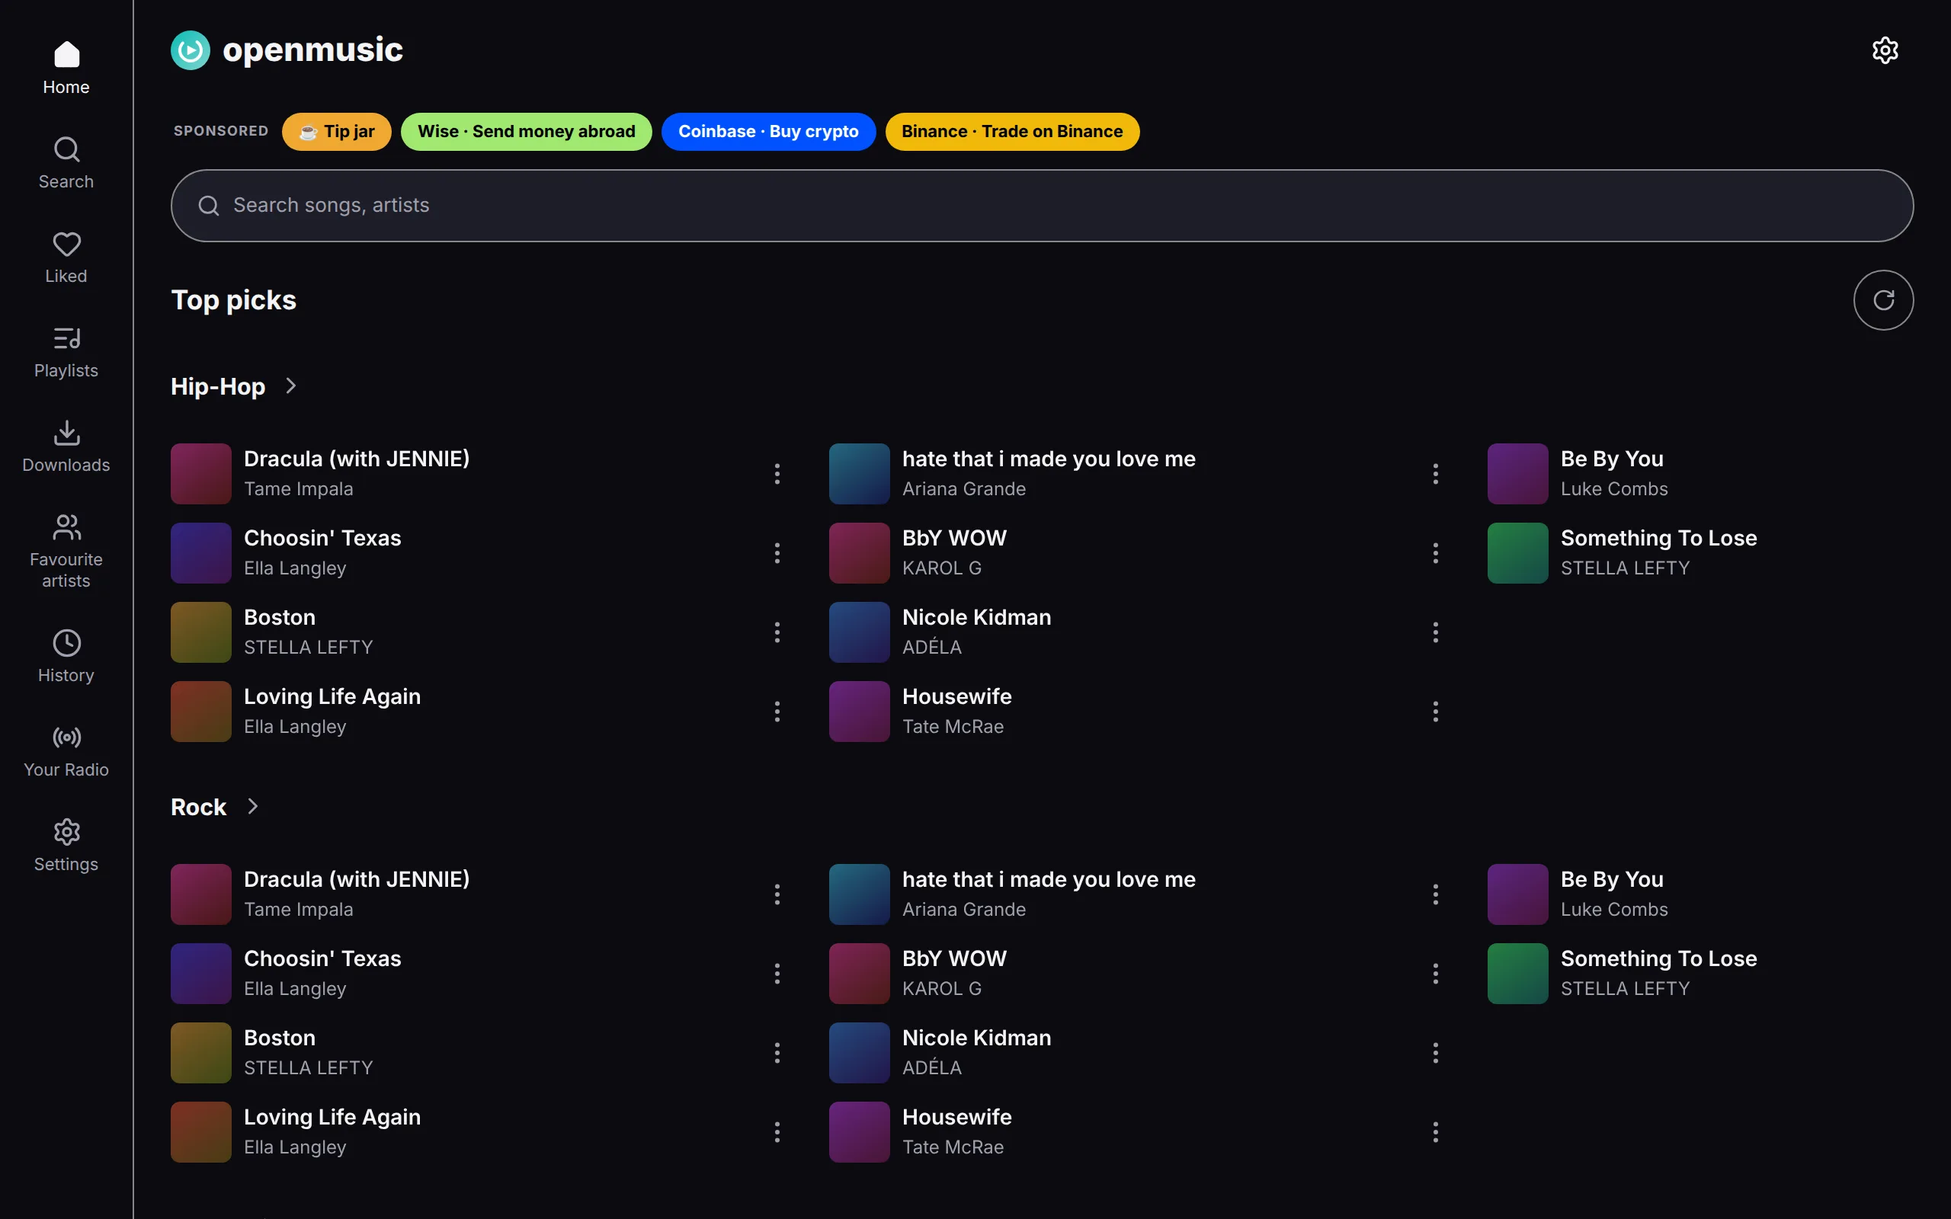
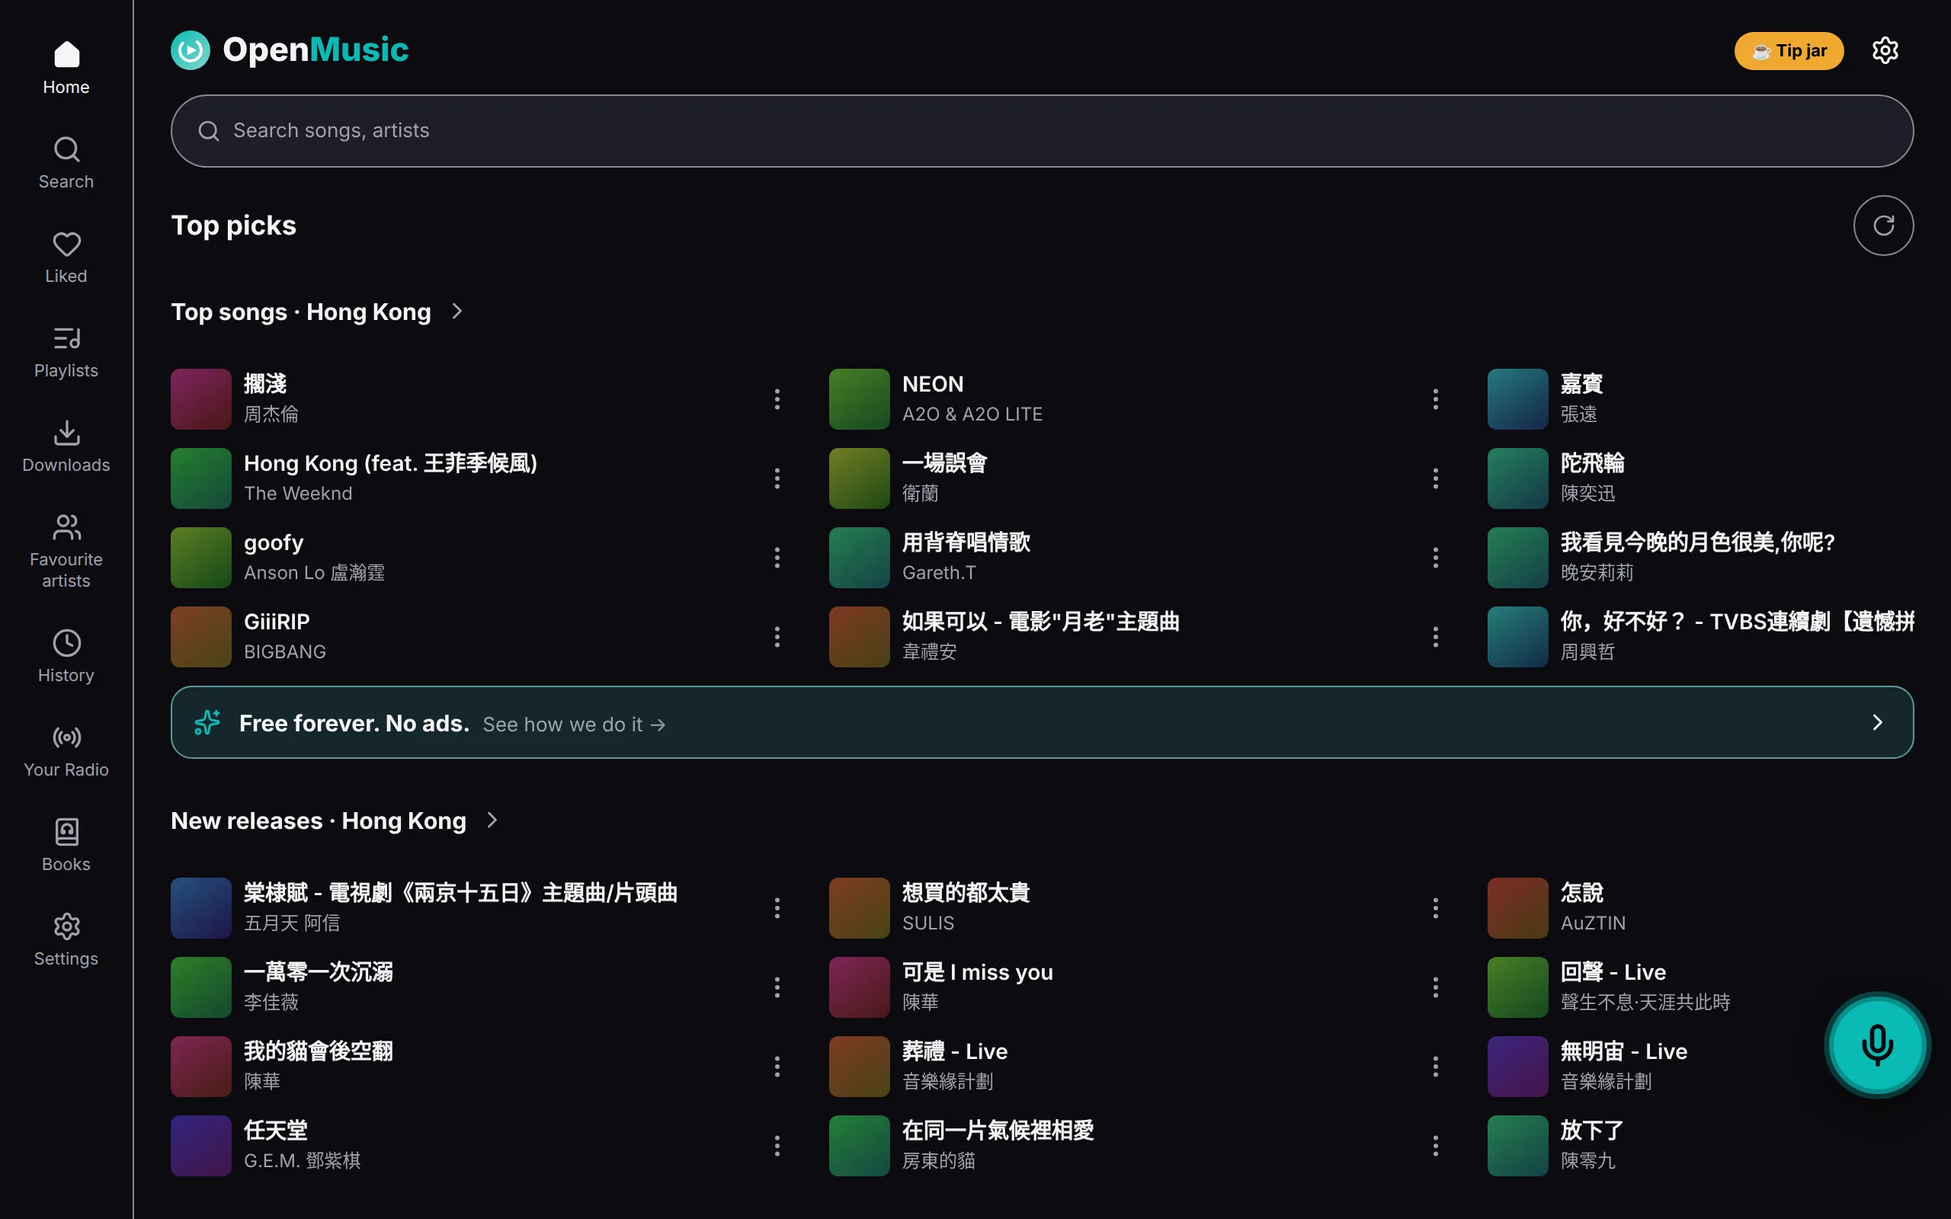
feat(free): tip-jar-only truth on /free — captions in 15 locales + recaptured home shot (Workstream A)
Hector 2026-11-23 20:59: only direct personal donations remain, NO other
sponsorships. The sponsor config/strip/supporter-sheet half already landed
in quick-261119-tiponly; this change finishes the /free surface:

- free.shot.homeCaption + free.shot.homeAlt rewritten in ALL 15 locales:
  no ads, no sponsorships — only a voluntary tip jar to the developer
  personally. Key names unchanged (i18n parity intact).
- free-page.test.ts: failing-if-broken pin — the caption/alt must tell the
  tip-jar-only truth and never mention the retired Sponsored row again.
- static/show/shot-home.webp RECAPTURED: real headless-Chromium shot of a
  local production build's Home (2560x1600, same as before) — header holds
  ONLY the gold Tip jar pill; the old capture still showed Wise/Coinbase/
  Binance referral pills.

diff --git a/src/lib/i18n/th.ts b/src/lib/i18n/th.ts
@@ -975,8 +975,8 @@ const th: Dict = {
 	"free.shot.settingsAlt": "การตั้งค่า OpenMusic: 15 ภาษา ธีมมืด สว่าง Gold และ Sakura สีเน้น และขนาดตัวอักษร",
 	"free.shot.listCaption": "การเล่น ดาวน์โหลด หน้าตา การแปล ข้อมูล… ปรับได้ตามใจคุณ",
 	"free.shot.listAlt": "รายการการตั้งค่า OpenMusic: บัญชี การเล่น ดาวน์โหลด หน้าตา เลย์เอาต์หน้าแรก การแปล ข้อมูล บันทึกกิจกรรม และเกี่ยวกับ",
-	"free.shot.homeCaption": "เพลงจริงบนหน้าแรก ไม่ต้องมีบัญชี ไม่มีโฆษณา — มีแค่แถว ได้รับการสนับสนุน ที่ติดป้ายไว้แถวเดียว",
-	"free.shot.homeAlt": "หน้าแรก OpenMusic: แถว ได้รับการสนับสนุน ที่ติดป้าย แถบค้นหา และชั้นเพลงจริง",
+	"free.shot.homeCaption": "เพลงจริงบนหน้าแรก ไม่ต้องมีบัญชี ไม่มีโฆษณา ไม่มีสปอนเซอร์ — มีเพียงกล่องทิปโดยสมัครใจ หากคุณอยากสนับสนุนนักพัฒนาโดยตรง",
+	"free.shot.homeAlt": "หน้าแรก OpenMusic: ปุ่มกล่องทิปโดยสมัครใจในส่วนหัว แถบค้นหา และชั้นเพลงจริง",
 
 	// --- lyrics editor (quick-261120-ugcb2) ---
 	"nowplaying.addLyrics": "เพิ่มเนื้อเพลง",

diff --git a/src/lib/i18n/hi.ts b/src/lib/i18n/hi.ts
@@ -975,8 +975,8 @@ const hi: Dict = {
 	"free.shot.settingsAlt": "OpenMusic सेटिंग्स: 15 भाषाएँ, Dark, Light, Gold और Sakura थीम, एक्सेंट रंग और टेक्स्ट साइज़",
 	"free.shot.listCaption": "प्लेबैक, डाउनलोड, रूप-रंग, अनुवाद, डेटा… सब आपकी पसंद से।",
 	"free.shot.listAlt": "OpenMusic सेटिंग्स सूची: अकाउंट, प्लेबैक, डाउनलोड, रूप-रंग, होम लेआउट, अनुवाद, डेटा, गतिविधि लॉग और परिचय",
-	"free.shot.homeCaption": "होम पर असली गाने। कोई अकाउंट नहीं, कोई विज्ञापन नहीं — बस एक लेबल वाली प्रायोजित पंक्ति।",
-	"free.shot.homeAlt": "OpenMusic होम: लेबल वाली प्रायोजित पंक्ति, सर्च बार और असली गानों की शेल्फ़",
+	"free.shot.homeCaption": "होम पर असली गाने। कोई अकाउंट नहीं, कोई विज्ञापन नहीं, कोई प्रायोजन नहीं — बस एक स्वैच्छिक टिप जार, अगर आप डेवलपर का व्यक्तिगत रूप से समर्थन करना चाहें।",
+	"free.shot.homeAlt": "OpenMusic होम: हेडर में स्वैच्छिक टिप जार बटन, सर्च बार और असली गानों की शेल्फ़",
 
 	// --- lyrics editor (quick-261120-ugcb2) ---
 	"nowplaying.addLyrics": "बोल जोड़ें",

diff --git a/src/lib/i18n/ru.ts b/src/lib/i18n/ru.ts
@@ -975,8 +975,8 @@ const ru: Dict = {
 	"free.shot.settingsAlt": "Настройки OpenMusic: 15 языков, темы Тёмная, Светлая, Gold и Sakura, акцентные цвета и размер текста",
 	"free.shot.listCaption": "Воспроизведение, загрузки, оформление, перевод, данные… всё настраивается под вас.",
 	"free.shot.listAlt": "Список настроек OpenMusic: Аккаунт, Воспроизведение, Загрузки, Оформление, Макет главной, Перевод, Данные, Журнал действий и О приложении",
-	"free.shot.homeCaption": "Настоящие песни на главной. Без аккаунта и рекламы — только одна помеченная строка «Спонсор».",
-	"free.shot.homeAlt": "Главная OpenMusic: помеченная строка «Спонсор», строка поиска и полки с настоящими песнями",
+	"free.shot.homeCaption": "Настоящие песни на главной. Без аккаунта, без рекламы, без спонсорства — только добровольная банка для чаевых, если хотите лично поддержать разработчика.",
+	"free.shot.homeAlt": "Главная OpenMusic: добровольная кнопка чаевых в шапке, строка поиска и полки с настоящими песнями",
 
 	// --- lyrics editor (quick-261120-ugcb2) ---
 	"nowplaying.addLyrics": "Добавить текст",

diff --git a/src/lib/i18n/ar.ts b/src/lib/i18n/ar.ts
@@ -975,8 +975,8 @@ const ar: Dict = {
 	"free.shot.settingsAlt": "إعدادات OpenMusic: 15 لغة، سمات داكنة وفاتحة وGold وSakura، ألوان التمييز وحجم النص",
 	"free.shot.listCaption": "التشغيل، التنزيلات، المظهر، الترجمة، البيانات… كلها تضبطها كما تشاء.",
 	"free.shot.listAlt": "قائمة إعدادات OpenMusic: الحساب، التشغيل، التنزيلات، المظهر، تخطيط الرئيسية، الترجمة، البيانات، سجل النشاط وحول",
-	"free.shot.homeCaption": "أغانٍ حقيقية في الرئيسية. بلا حساب، بلا إعلانات — فقط صف «برعاية» واحد موسوم.",
-	"free.shot.homeAlt": "الصفحة الرئيسية لـ OpenMusic: صف «برعاية» الموسوم وشريط البحث ورفوف أغانٍ حقيقية",
+	"free.shot.homeCaption": "أغانٍ حقيقية في الرئيسية. بلا حساب، بلا إعلانات، بلا رعايات — فقط جرة إكراميات تطوعية إذا أردت دعم المطوّر شخصيًا.",
+	"free.shot.homeAlt": "الصفحة الرئيسية لـ OpenMusic: زر جرة الإكراميات التطوعية في الترويسة وشريط البحث ورفوف أغانٍ حقيقية",
 
 	// --- lyrics editor (quick-261120-ugcb2) ---
 	"nowplaying.addLyrics": "إضافة كلمات",

diff --git a/src/lib/i18n/vi.ts b/src/lib/i18n/vi.ts
@@ -975,8 +975,8 @@ const vi: Dict = {
 	"free.shot.settingsAlt": "Cài đặt OpenMusic: 15 ngôn ngữ, giao diện Tối, Sáng, Gold và Sakura, màu nhấn và cỡ chữ",
 	"free.shot.listCaption": "Phát nhạc, tải xuống, giao diện, dịch, dữ liệu… tất cả tùy bạn chỉnh.",
 	"free.shot.listAlt": "Danh sách cài đặt OpenMusic: Tài khoản, Phát nhạc, Tải xuống, Giao diện, Bố cục Trang chủ, Dịch, Dữ liệu, Nhật ký hoạt động và Giới thiệu",
-	"free.shot.homeCaption": "Bài hát thật trên Trang chủ. Không tài khoản, không quảng cáo — chỉ một hàng Được tài trợ được ghi rõ.",
-	"free.shot.homeAlt": "Trang chủ OpenMusic: hàng Được tài trợ được ghi rõ, thanh tìm kiếm và các kệ bài hát thật",
+	"free.shot.homeCaption": "Bài hát thật trên Trang chủ. Không tài khoản, không quảng cáo, không tài trợ — chỉ một hũ tip tự nguyện nếu bạn muốn ủng hộ trực tiếp nhà phát triển.",
+	"free.shot.homeAlt": "Trang chủ OpenMusic: nút hũ tip tự nguyện ở đầu trang, thanh tìm kiếm và các kệ bài hát thật",
 
 	// --- lyrics editor (quick-261120-ugcb2) ---
 	"nowplaying.addLyrics": "Thêm lời bài hát",

diff --git a/src/lib/i18n/fr.ts b/src/lib/i18n/fr.ts
@@ -975,8 +975,8 @@ const fr: Dict = {
 	"free.shot.settingsAlt": "Réglages d'OpenMusic : 15 langues, thèmes Sombre, Clair, Gold et Sakura, couleurs d'accent et taille du texte",
 	"free.shot.listCaption": "Lecture, téléchargements, apparence, traduction, données… tout se règle à ton goût.",
 	"free.shot.listAlt": "Liste des réglages d'OpenMusic : Compte, Lecture, Téléchargements, Apparence, Mise en page de l'accueil, Traduction, Données, Journal d'activité et À propos",
-	"free.shot.homeCaption": "De vrais titres sur l'Accueil. Sans compte, sans pub — juste la ligne Sponsorisé bien identifiée.",
-	"free.shot.homeAlt": "Accueil d'OpenMusic : la ligne Sponsorisé identifiée, la barre de recherche et des rayons de vrais titres",
+	"free.shot.homeCaption": "De vrais titres sur l'Accueil. Sans compte, sans pub, sans parrainages — juste une cagnotte volontaire si vous voulez soutenir le développeur personnellement.",
+	"free.shot.homeAlt": "Accueil d'OpenMusic : le bouton de cagnotte volontaire dans l'en-tête, la barre de recherche et des rayons de vrais titres",
 
 	// --- lyrics editor (quick-261120-ugcb2) ---
 	"nowplaying.addLyrics": "Ajouter les paroles",

diff --git a/src/lib/i18n/de.ts b/src/lib/i18n/de.ts
@@ -975,8 +975,8 @@ const de: Dict = {
 	"free.shot.settingsAlt": "OpenMusic-Einstellungen: 15 Sprachen, Designs Dunkel, Hell, Gold und Sakura, Akzentfarben und Textgröße",
 	"free.shot.listCaption": "Wiedergabe, Downloads, Darstellung, Übersetzung, Daten… alles nach deinem Geschmack.",
 	"free.shot.listAlt": "OpenMusic-Einstellungsliste: Konto, Wiedergabe, Downloads, Darstellung, Startseiten-Layout, Übersetzung, Daten, Aktivitätsprotokoll und Info",
-	"free.shot.homeCaption": "Echte Titel auf der Startseite. Kein Konto, keine Werbung — nur die eine gekennzeichnete Gesponsert-Zeile.",
-	"free.shot.homeAlt": "OpenMusic-Startseite: die gekennzeichnete Gesponsert-Zeile, die Suchleiste und Regale mit echten Titeln",
+	"free.shot.homeCaption": "Echte Titel auf der Startseite. Kein Konto, keine Werbung, keine Sponsorings — nur ein freiwilliges Trinkgeldglas, wenn du den Entwickler persönlich unterstützen willst.",
+	"free.shot.homeAlt": "OpenMusic-Startseite: die freiwillige Trinkgeldglas-Schaltfläche in der Kopfzeile, die Suchleiste und Regale mit echten Titeln",
 
 	// --- lyrics editor (quick-261120-ugcb2) ---
 	"nowplaying.addLyrics": "Songtext hinzufügen",

diff --git a/src/lib/i18n/it.ts b/src/lib/i18n/it.ts
@@ -975,8 +975,8 @@ const it: Dict = {
 	"free.shot.settingsAlt": "Impostazioni di OpenMusic: 15 lingue, temi Scuro, Chiaro, Gold e Sakura, colori d'accento e dimensione del testo",
 	"free.shot.listCaption": "Riproduzione, download, aspetto, traduzione, dati… tutto da regolare a piacere.",
 	"free.shot.listAlt": "Elenco impostazioni di OpenMusic: Account, Riproduzione, Download, Aspetto, Layout della Home, Traduzione, Dati, Registro attività e Info",
-	"free.shot.homeCaption": "Brani veri nella Home. Nessun account, niente pubblicità — solo la riga Sponsorizzato ben indicata.",
-	"free.shot.homeAlt": "Home di OpenMusic: la riga Sponsorizzato indicata, la barra di ricerca e scaffali di brani veri",
+	"free.shot.homeCaption": "Brani veri nella Home. Nessun account, niente pubblicità, niente sponsorizzazioni — solo un salvadanaio volontario per le mance se vuoi sostenere personalmente lo sviluppatore.",
+	"free.shot.homeAlt": "Home di OpenMusic: il pulsante volontario per le mance nell'intestazione, la barra di ricerca e scaffali di brani veri",
 
 	// --- lyrics editor (quick-261120-ugcb2) ---
 	"nowplaying.addLyrics": "Aggiungi testo",

diff --git a/src/lib/i18n/pt.ts b/src/lib/i18n/pt.ts
@@ -975,8 +975,8 @@ const pt: Dict = {
 	"free.shot.settingsAlt": "Configurações do OpenMusic: 15 idiomas, temas Escuro, Claro, Gold e Sakura, cores de destaque e tamanho do texto",
 	"free.shot.listCaption": "Reprodução, downloads, aparência, tradução, dados… tudo do seu jeito.",
 	"free.shot.listAlt": "Lista de configurações do OpenMusic: Conta, Reprodução, Downloads, Aparência, Layout do início, Tradução, Dados, Registro de atividade e Sobre",
-	"free.shot.homeCaption": "Músicas reais no Início. Sem conta, sem anúncios — só a linha Patrocinado identificada.",
-	"free.shot.homeAlt": "Início do OpenMusic: a linha Patrocinado identificada, a barra de busca e prateleiras de músicas reais",
+	"free.shot.homeCaption": "Músicas reais no Início. Sem conta, sem anúncios, sem patrocínios — só um pote de gorjetas voluntário se você quiser apoiar o desenvolvedor pessoalmente.",
+	"free.shot.homeAlt": "Início do OpenMusic: o botão voluntário de gorjetas no cabeçalho, a barra de busca e prateleiras de músicas reais",
 
 	// --- lyrics editor (quick-261120-ugcb2) ---
 	"nowplaying.addLyrics": "Adicionar letra",

diff --git a/src/routes/(app)/free/free-page.test.ts b/src/routes/(app)/free/free-page.test.ts
@@ -66,6 +66,19 @@ describe('/free page', () => {
 		}
 	});
 
+	it('home shot caption tells the tip-jar-only truth (Hector 2026-11-23: no sponsorships, only direct personal donations)', () => {
+		// Failing-if-broken pin for Workstream A: the old caption claimed "the one
+		// labelled Sponsored row" — that row is gone. The caption AND the alt text
+		// must say no ads, no sponsorships, and name the voluntary tip jar instead.
+		expect(en['free.shot.homeCaption']).toMatch(/no ads/i);
+		expect(en['free.shot.homeCaption']).toMatch(/no sponsorships/i);
+		expect(en['free.shot.homeCaption']).toMatch(/voluntary tip jar/i);
+		expect(en['free.shot.homeCaption']).toMatch(/developer personally/i);
+		expect(en['free.shot.homeCaption']).not.toMatch(/labelled Sponsored row/);
+		expect(en['free.shot.homeAlt']).toMatch(/voluntary tip jar/i);
+		expect(en['free.shot.homeAlt']).not.toMatch(/Sponsored row/);
+	});
+
 	it('copy stays honest: resume scope matches the code, radio is not called AI, no invented prices', () => {
 		const free = Object.entries(en).filter(([k]) => k.startsWith('free.'));
 		const all = free.map(([, v]) => v).join('\n');

diff --git a/src/lib/i18n/es.ts b/src/lib/i18n/es.ts
@@ -975,8 +975,8 @@ const es: Dict = {
 	"free.shot.settingsAlt": "Ajustes de OpenMusic: 15 idiomas, temas Oscuro, Claro, Gold y Sakura, colores de acento y tamaño de texto",
 	"free.shot.listCaption": "Reproducción, descargas, apariencia, traducción, datos… todo a tu gusto.",
 	"free.shot.listAlt": "Lista de ajustes de OpenMusic: Cuenta, Reproducción, Descargas, Apariencia, Diseño de inicio, Traducción, Datos, Registro de actividad y Acerca de",
-	"free.shot.homeCaption": "Canciones reales en Inicio. Sin cuenta, sin anuncios: solo la fila Patrocinado etiquetada.",
-	"free.shot.homeAlt": "Inicio de OpenMusic: la fila Patrocinado etiquetada, la barra de búsqueda y estanterías de canciones reales",
+	"free.shot.homeCaption": "Canciones reales en Inicio. Sin cuenta, sin anuncios, sin patrocinios: solo un bote de propinas voluntario si quieres apoyar personalmente al desarrollador.",
+	"free.shot.homeAlt": "Inicio de OpenMusic: el botón voluntario de propinas en el encabezado, la barra de búsqueda y estanterías de canciones reales",
 
 	// --- lyrics editor (quick-261120-ugcb2) ---
 	"nowplaying.addLyrics": "Añadir letra",

diff --git a/src/lib/i18n/tr.ts b/src/lib/i18n/tr.ts
@@ -975,8 +975,8 @@ const tr: Dict = {
 	"free.shot.settingsAlt": "OpenMusic Ayarları: 15 dil, Koyu, Açık, Gold ve Sakura temaları, vurgu renkleri ve yazı boyutu",
 	"free.shot.listCaption": "Çalma, indirmeler, görünüm, çeviri, veri… hepsi senin ayarına göre.",
 	"free.shot.listAlt": "OpenMusic ayar listesi: Hesap, Çalma, İndirmeler, Görünüm, Ana sayfa düzeni, Çeviri, Veri, Etkinlik günlüğü ve Hakkında",
-	"free.shot.homeCaption": "Ana sayfada gerçek şarkılar. Hesap yok, reklam yok — sadece etiketli tek bir Sponsorlu satırı.",
-	"free.shot.homeAlt": "OpenMusic Ana sayfası: etiketli Sponsorlu satırı, arama çubuğu ve gerçek şarkı rafları",
+	"free.shot.homeCaption": "Ana sayfada gerçek şarkılar. Hesap yok, reklam yok, sponsorluk yok — sadece geliştiriciyi kişisel olarak desteklemek isterseniz gönüllü bir bahşiş kavanozu.",
+	"free.shot.homeAlt": "OpenMusic Ana sayfası: üst bilgideki gönüllü bahşiş düğmesi, arama çubuğu ve gerçek şarkı rafları",
 
 	// --- lyrics editor (quick-261120-ugcb2) ---
 	"nowplaying.addLyrics": "Şarkı sözü ekle",
